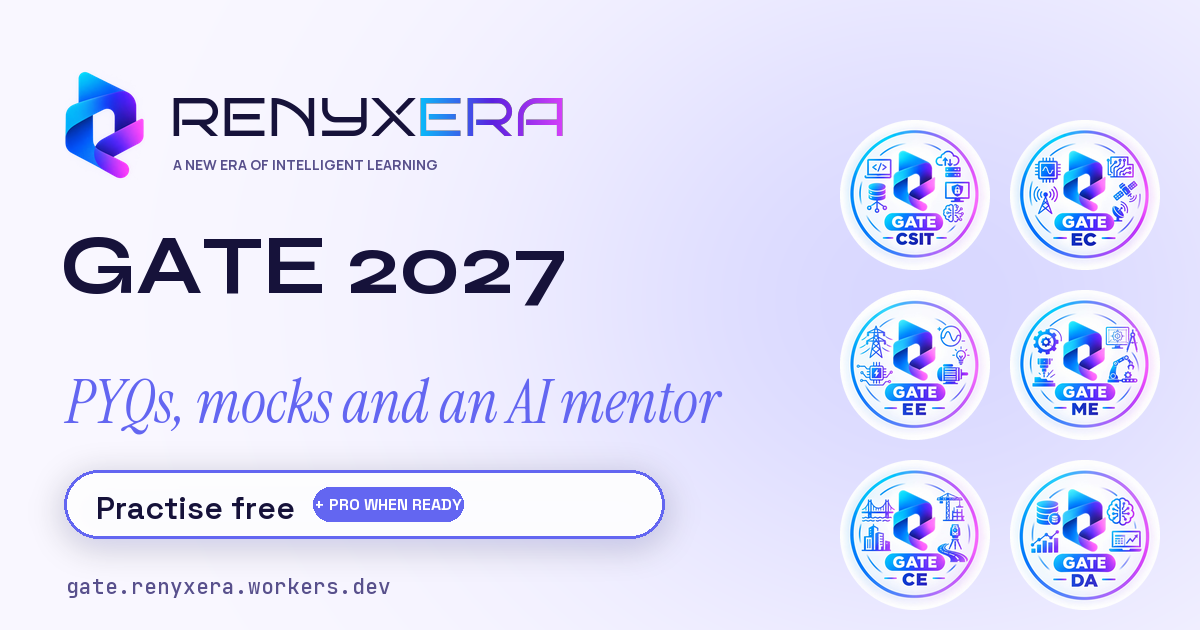
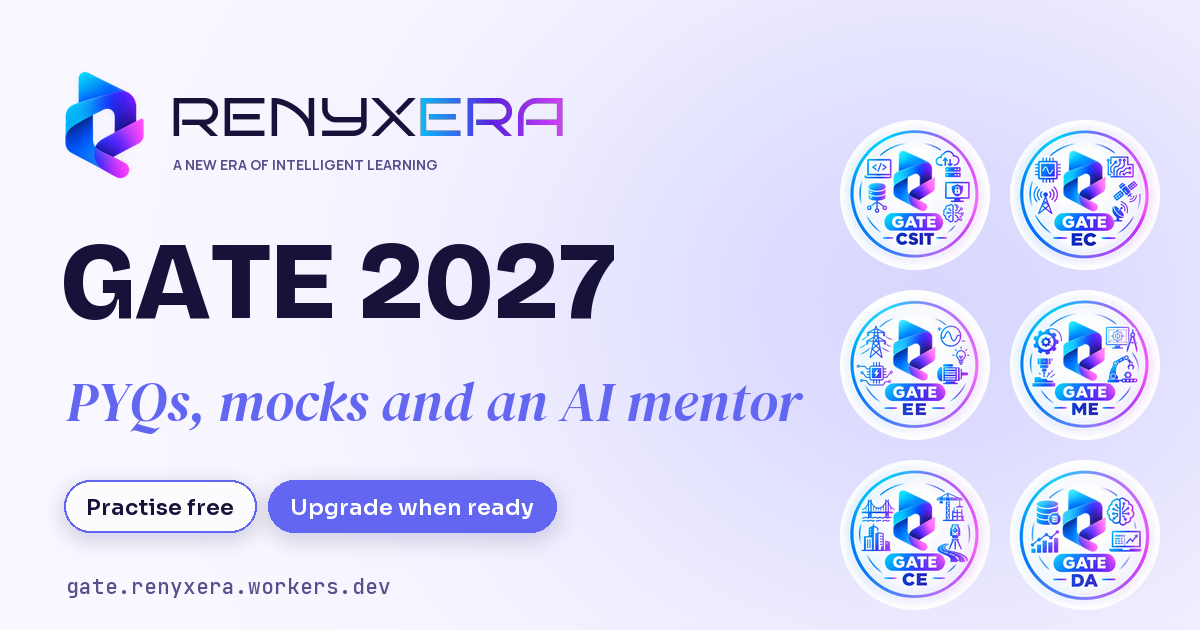
Final card style (Bricolage title, DM Serif branch, Sora chips, JetBrains Mono URL); custom card glass bar with Playfair tagline wired into share button

diff --git a/components/growth/share-card.tsx b/components/growth/share-card.tsx
@@ -17,26 +17,30 @@ export function ShareCard({ link, text }: { link: string; text: string }) {
   const [avatar, setAvatar] = useState<string | null>(null);
 
   const draw = async (): Promise<Blob | null> => {
+    const parts = [on.name && f.name.trim(), on.username && f.username.trim() && `@${f.username.trim().replace(/^@/, "")}`, on.sid && f.sid.trim() && `ID ${f.sid.trim()}`].filter(Boolean) as string[];
+    const custom = parts.length > 0 || !!avatar;
     const img = new Image();
-    img.src = "/og/default.png";
+    img.src = custom ? "/og/custom-base.png" : "/og/default.png";
     await img.decode();
     const c = document.createElement("canvas");
     c.width = 1200; c.height = 630;
     const g = c.getContext("2d")!;
     g.drawImage(img, 0, 0, 1200, 630);
-    const parts = [on.name && f.name.trim(), on.username && f.username.trim() && `@${f.username.trim().replace(/^@/, "")}`, on.sid && f.sid.trim() && `ID ${f.sid.trim()}`].filter(Boolean) as string[];
-    if (avatar) {
-      const av = new Image(); av.src = avatar; await av.decode();
-      g.save(); g.beginPath(); g.arc(1040, 140, 80, 0, Math.PI * 2); g.clip();
-      const m = Math.min(av.width, av.height); g.drawImage(av, (av.width - m) / 2, (av.height - m) / 2, m, m, 960, 60, 160, 160); g.restore();
-      g.lineWidth = 6; g.strokeStyle = "#6366f1"; g.beginPath(); g.arc(1040, 140, 80, 0, Math.PI * 2); g.stroke();
-    }
-    if (parts.length) {
-      // replace the call-to-action pill with the sender line
-      g.fillStyle = "#faf8ff"; g.fillRect(40, 456, 640, 96);
-      g.fillStyle = "#6366f1"; g.beginPath(); g.roundRect(64, 470, 640, 68, 34); g.fill();
-      g.fillStyle = "#fff"; g.font = "700 27px Manrope, system-ui, sans-serif";
-      g.fillText(`Shared by ${parts.join(" · ")}`.slice(0, 54), 96, 513);
+    if (custom) {
+      // glass sender bar: avatar, name, then username and ID
+      g.save(); g.shadowColor = "rgba(99,102,241,.35)"; g.shadowBlur = 24; g.shadowOffsetY = 8;
+      g.fillStyle = "rgba(255,255,255,.95)"; g.beginPath(); g.roundRect(64, 462, 660, 96, 48); g.fill(); g.restore();
+      g.lineWidth = 3; g.strokeStyle = "#6366f1"; g.beginPath(); g.roundRect(64, 462, 660, 96, 48); g.stroke();
+      if (avatar) {
+        const av = new Image(); av.src = avatar; await av.decode();
+        g.save(); g.beginPath(); g.arc(112, 510, 34, 0, Math.PI * 2); g.clip();
+        const m = Math.min(av.width, av.height); g.drawImage(av, (av.width - m) / 2, (av.height - m) / 2, m, m, 78, 476, 68, 68); g.restore();
+      }
+      const x = avatar ? 164 : 96;
+      g.fillStyle = "#16123a"; g.font = "700 28px Sora, Manrope, system-ui, sans-serif";
+      g.fillText((on.name && f.name.trim()) || "Shared on RENYXERA", x, 506);
+      g.fillStyle = "#58508c"; g.font = "500 21px Sora, Manrope, system-ui, sans-serif";
+      g.fillText(parts.filter((p) => p !== (on.name && f.name.trim())).join("  ·  ").slice(0, 46), x, 538);
     }
     return new Promise((r) => c.toBlob((b) => r(b), "image/png"));
   };

diff --git a/scripts/make-og.py b/scripts/make-og.py
@@ -13,6 +13,10 @@ def syne(sz, w=800):
     f = ImageFont.truetype(FD + "Syne.ttf", sz); f.set_variation_by_axes([w]); return f
 def grotesk(sz, w=600):
     f = ImageFont.truetype(FD + "SpaceGrotesk.ttf", sz); f.set_variation_by_axes([w]); return f
+def sora(sz, w=600):
+    f = ImageFont.truetype(FD + "Sora.ttf", sz); f.set_variation_by_axes([w]); return f
+def playfair_i(sz, w=600):
+    f = ImageFont.truetype(FD + "PlayfairItalic.ttf", sz); f.set_variation_by_axes([w]); return f
 def mono(sz, w=500):
     f = ImageFont.truetype(FD + "JetBrainsMono.ttf", sz); f.set_variation_by_axes([w]); return f
 serif_i = lambda sz: ImageFont.truetype(FD + "InstrumentSerif-Italic.ttf", sz)
@@ -68,27 +72,25 @@ def background(accent):
     return Image.fromarray(np.clip(img, 0, 255).astype("uint8"))
 
 def pill(im, accent, a, b):
-    """Glass pill: soft shadow, accent-gradient hairline, serif-italic lead + small-caps chip."""
-    a1 = hexrgb(accent)
-    sh = Image.new("RGBA", im.size, (0, 0, 0, 0)); ImageDraw.Draw(sh).rounded_rectangle((64, 478, 664, 544), 33, fill=a1 + (70,))
-    im.alpha_composite(sh.filter(ImageFilter.GaussianBlur(16)))
-    ring = Image.new("RGBA", im.size, (0, 0, 0, 0)); rd = ImageDraw.Draw(ring)
-    rd.rounded_rectangle((64, 470, 664, 538), 34, fill=a1 + (255,)); rd.rounded_rectangle((67, 473, 661, 535), 31, fill=(255, 255, 255, 240))
-    im.alpha_composite(ring)
-    d = ImageDraw.Draw(im)
-    d.text((96, 487), a, font=grotesk(32, 600), fill=(22, 18, 58))
-    w = d.textlength(a, font=grotesk(32, 600))
-    cx = int(96 + w + 18)
-    d.rounded_rectangle((cx, 487, cx + 150, 521), 17, fill=a1)
-    d.text((cx + 75, 504), "+ " + b.upper(), font=grotesk(16, 700), fill="white", anchor="mm")
+    """Two chips (outlined + solid) with soft shadows, in Sora."""
+    ac = hexrgb(accent); f = sora(22, 600); x = 64; y = 480
+    for text, solid in ((a, False), (b, True)):
+        d = ImageDraw.Draw(im); w = int(d.textlength(text, font=f)) + 44
+        sh = Image.new("RGBA", im.size, (0, 0, 0, 0)); ImageDraw.Draw(sh).rounded_rectangle((x, y + 6, x + w, y + 58), 26, fill=ac + (60,))
+        im.alpha_composite(sh.filter(ImageFilter.GaussianBlur(10)))
+        ov = Image.new("RGBA", im.size, (0, 0, 0, 0)); od = ImageDraw.Draw(ov)
+        if solid: od.rounded_rectangle((x, y, x + w, y + 52), 26, fill=ac + (255,))
+        else: od.rounded_rectangle((x, y, x + w, y + 52), 26, fill=(255, 255, 255, 235), outline=ac + (255,), width=2)
+        im.alpha_composite(ov); d = ImageDraw.Draw(im)
+        d.text((x + w // 2, y + 27), text, font=f, fill="white" if solid else (22, 18, 58), anchor="mm"); x += w + 12
 
 def card(slug, title, sub, logo, accent):
     im = background(accent).convert("RGBA")
     d = ImageDraw.Draw(im)
     im.alpha_composite(lock, (64, 56))
-    d.text((60, 250), title, font=syne(70, 700), fill=(22, 18, 58))
-    d.text((66, 372), sub, font=serif_i(64), fill=hexrgb(accent))
-    pill(im, accent, "Previous-year questions", "AI mentor")
+    d.text((60, 250), title, font=brico(92, 800), fill=(22, 18, 58))
+    d.text((66, 366), sub, font=ImageFont.truetype(FD + "DMSerif.ttf", 60), fill=hexrgb(accent))
+    pill(im, accent, "2,400+ official PYQs", "AI mentor")
     d = ImageDraw.Draw(im)
     d.text((66, 572), "gate.renyxera.workers.dev", font=mono(21, 500), fill=(88, 80, 140))
     if logo:
@@ -102,16 +104,21 @@ for slug, (t, s, lg, ac) in BR.items():
     except OSError as e:
         print("skipped (file open elsewhere?):", slug, e)
     circle(f"logo/{lg}.jpeg", 512).save(f"public/brand/branch/{slug}.png", optimize=True)
-# default card: the brand mark large instead of a branch logo
-im = background("#6366f1").convert("RGBA"); d = ImageDraw.Draw(im)
-im.alpha_composite(lock, (64, 70))
-d.text((60, 215), "GATE 2027", font=syne(84, 700), fill=(22, 18, 58))
-d.text((66, 362), "PYQs, mocks and an AI mentor", font=serif_i(60), fill=(99, 102, 241))
-pill(im, "#6366f1", "Practise free", "Pro when ready")
-d = ImageDraw.Draw(im)
-d.text((66, 572), "gate.renyxera.workers.dev", font=mono(21, 500), fill=(88, 80, 140))
-x = 840
-for k, (_, (t, s, lg, ac)) in enumerate(BR.items()):
-    c = circle(f"logo/{lg}.jpeg", 150); im.alpha_composite(c, (x + (k % 2) * 170, 120 + (k // 2) * 170))
-im.convert("RGB").save("public/og/default.png", optimize=True)
+def default_card(out, custom=False):
+    im = background("#6366f1").convert("RGBA"); d = ImageDraw.Draw(im)
+    im.alpha_composite(lock, (64, 70))
+    d.text((60, 215), "GATE 2027", font=brico(110, 800), fill=(22, 18, 58))
+    d.text((66, 362), "PYQs, mocks and an AI mentor", font=(playfair_i(52) if custom else ImageFont.truetype(FD + "DMSerif.ttf", 56)), fill=(99, 102, 241))
+    if not custom:
+        pill(im, "#6366f1", "Practise free", "Upgrade when ready")
+    d = ImageDraw.Draw(im)
+    d.text((66, 572), "gate.renyxera.workers.dev", font=mono(21, 500), fill=(88, 80, 140))
+    x = 840
+    for k, (_, (t, s, lg, ac)) in enumerate(BR.items()):
+        c = circle(f"logo/{lg}.jpeg", 150); im.alpha_composite(c, (x + (k % 2) * 170, 120 + (k // 2) * 170))
+    im.convert("RGB").save(out, optimize=True)
+default_card("public/og/default.png")
+default_card("public/og/custom-base.png", custom=True)
+
 print("done")
+
